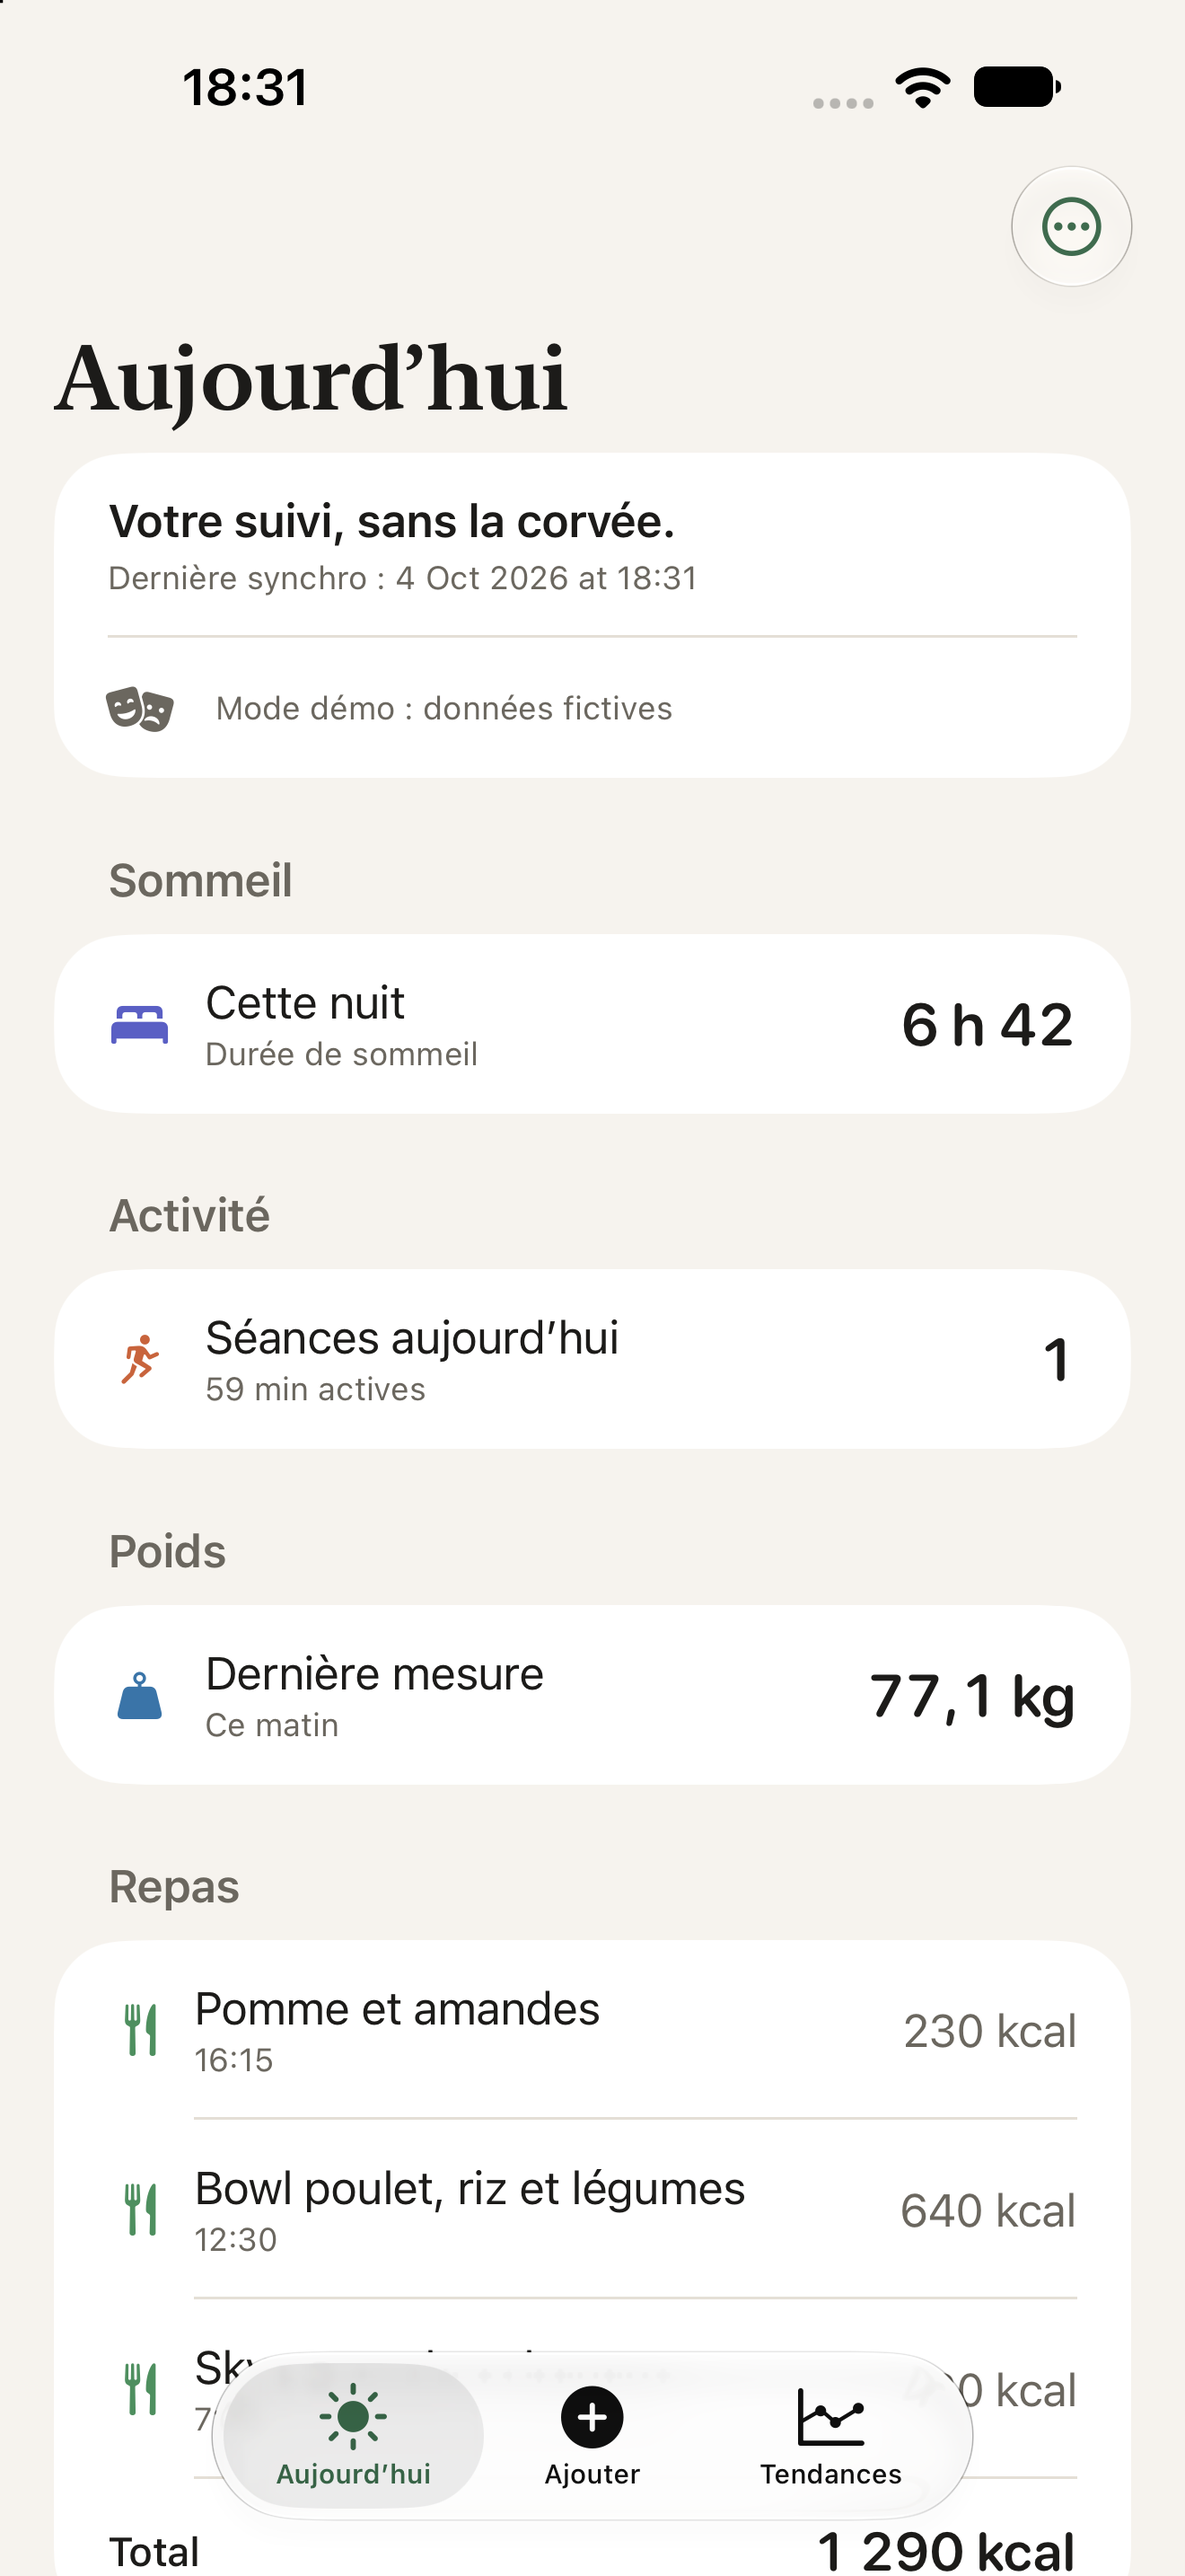
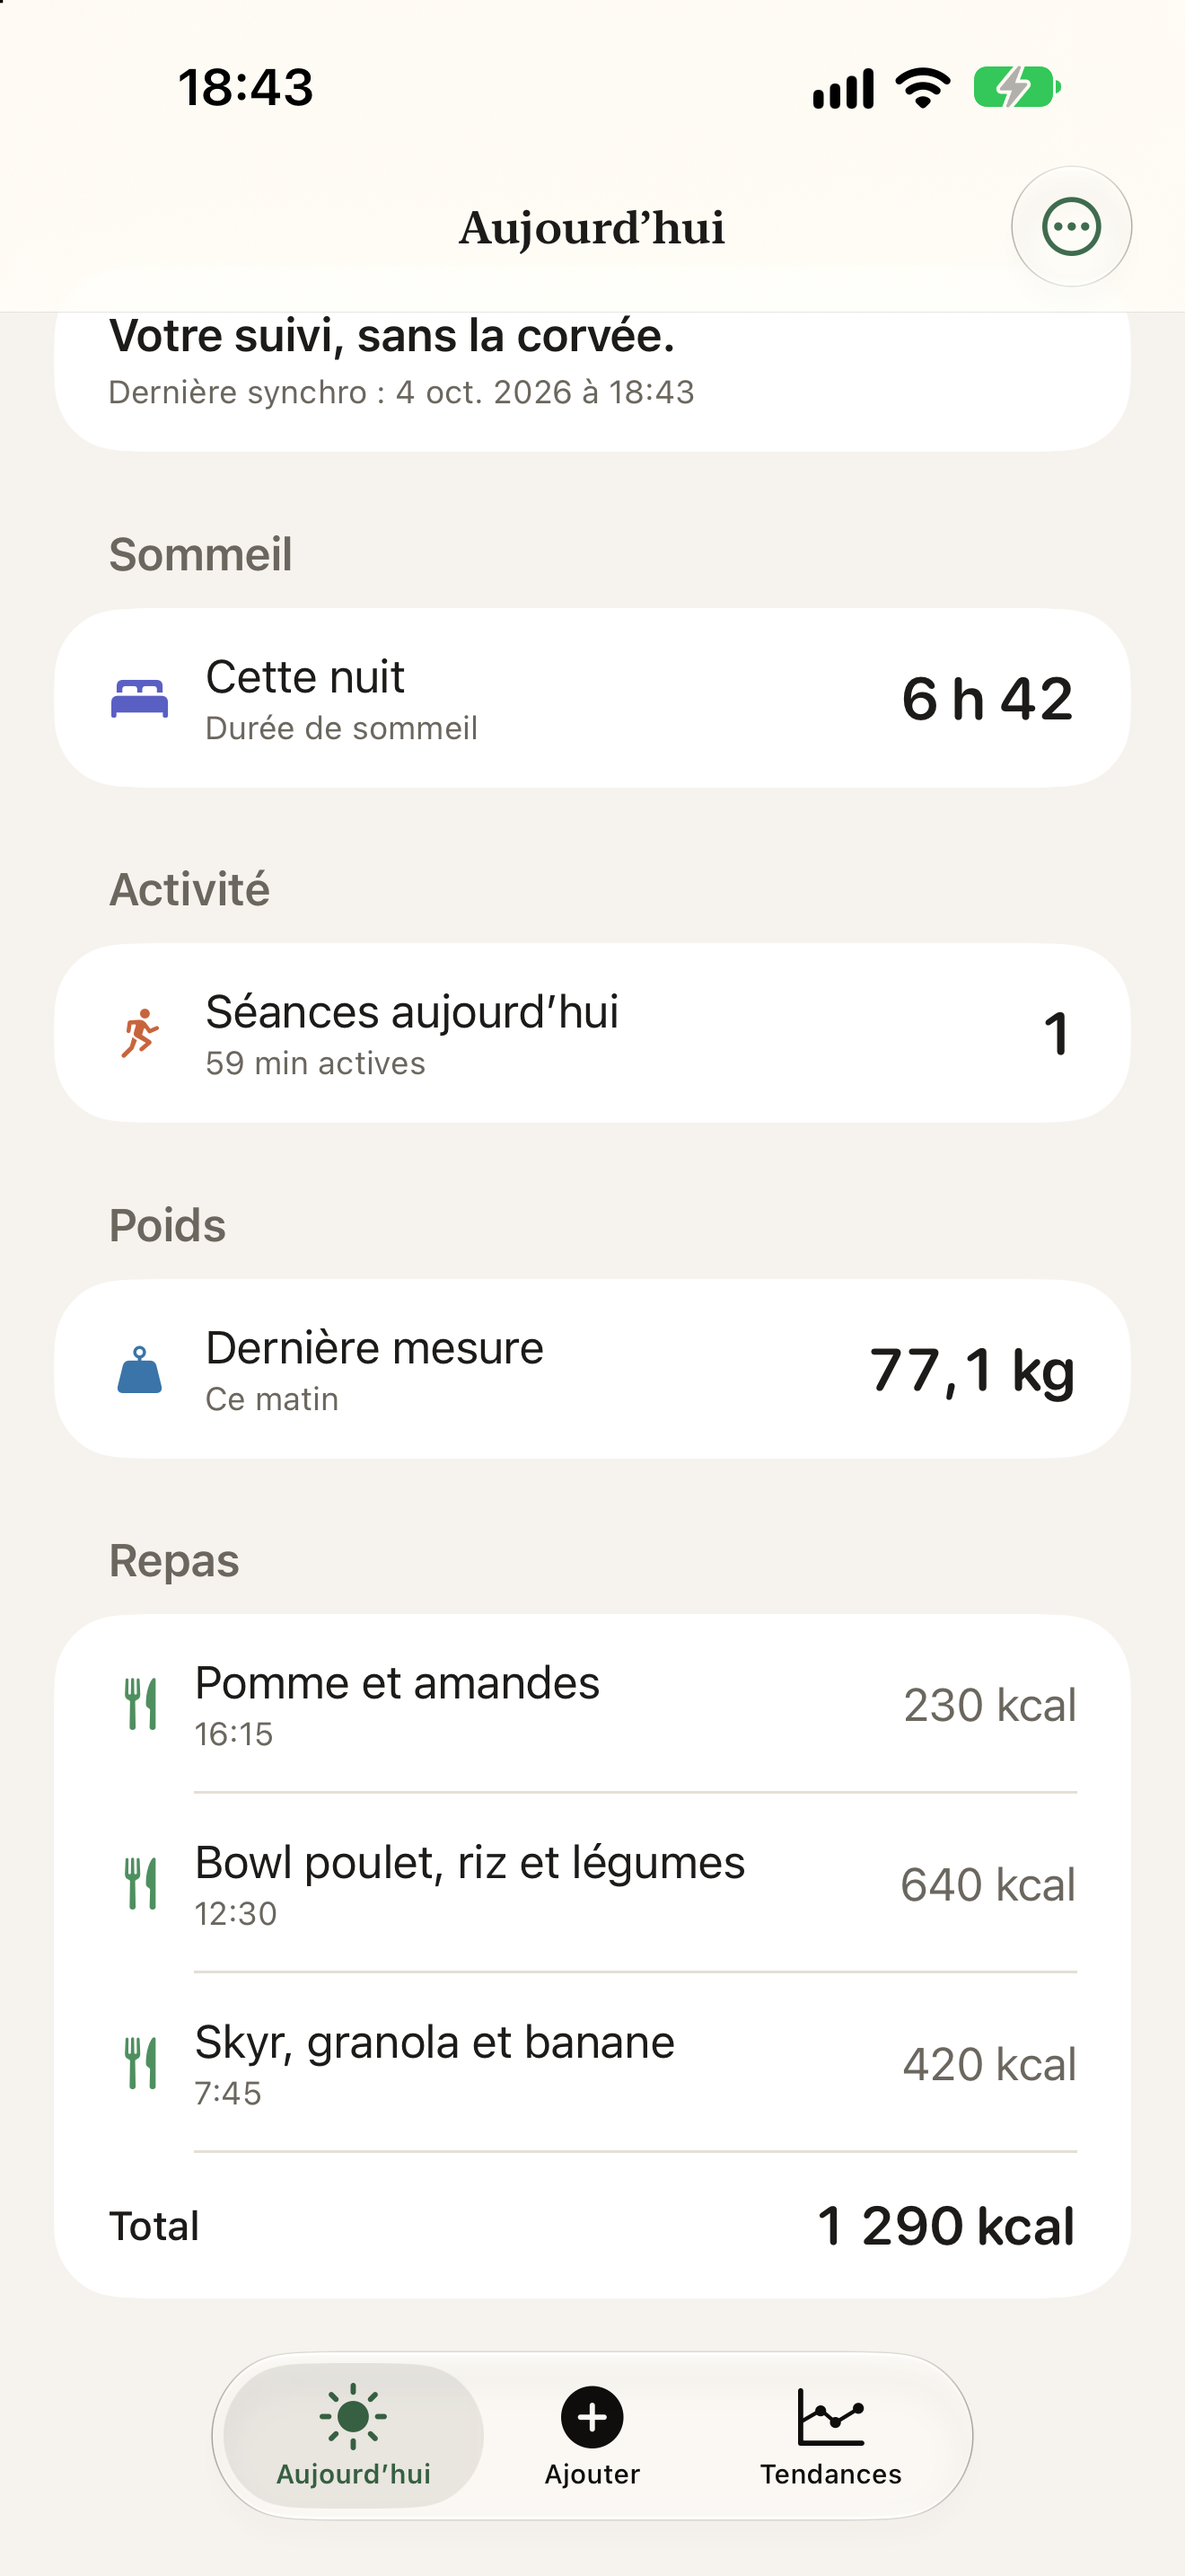
LIV-19: Captures en français, sans bandeau démo ni contenu coupé
- App déclarée en français (developmentRegion fr) : les dates suivaient
  l'anglais, y compris sur un iPhone réglé en français.
- Fond des listes étendu sous le clavier : supprime la bande sombre.
- « Enregistrer » retiré de la barre du clavier (doublon du bouton du haut).
- Arguments de capture (Debug seulement) : -captureMode, -captureScroll,
  -captureRange, -captureKeyboard.
- scripts/captures.sh régénère les 10 captures App Store et les 6 visuels
  de la landing, simulateur en français.

diff --git a/HealthKitSpike/LivasideSpike/LivasideRootView.swift b/HealthKitSpike/LivasideSpike/LivasideRootView.swift
@@ -20,13 +20,41 @@ struct LivasideRootView: View {
         .tint(Theme.sauge)
     }
 
-    /// Captures d'écran : `-captureTab trends` ouvre directement un onglet (build Debug seulement).
-    private static var initialTab: String {
-        #if DEBUG
-        UserDefaults.standard.string(forKey: "captureTab") ?? "today"
-        #else
-        "today"
-        #endif
+    private static var initialTab: String { Capture.tab ?? "today" }
+}
+
+/// Réglages des captures d'écran, lus dans les arguments de lancement (build Debug seulement) :
+/// `-captureTab today|meal|trends` ouvre un onglet, `-captureMode YES` masque le bandeau de démo,
+/// `-captureScroll end` cale la liste en bas, `-captureRange 30` choisit la période des tendances,
+/// `-captureKeyboard NO` ouvre « Ajouter un repas » sans clavier.
+private enum Capture {
+    #if DEBUG
+    static let tab = UserDefaults.standard.string(forKey: "captureTab")
+    static let isActive = UserDefaults.standard.bool(forKey: "captureMode")
+    static let scrollsToEnd = UserDefaults.standard.string(forKey: "captureScroll") == "end"
+    static let range = UserDefaults.standard.integer(forKey: "captureRange")
+    static let showsKeyboard = UserDefaults.standard.string(forKey: "captureKeyboard") != "NO"
+    #else
+    static let tab: String? = nil
+    static let isActive = false
+    static let scrollsToEnd = false
+    static let range = 0
+    static let showsKeyboard = true
+    #endif
+    static let endID = "capture-end"
+}
+
+private extension View {
+    /// `-captureScroll end` : cale la liste sur sa dernière ligne (`Capture.endID`), au-dessus de la barre d'onglets.
+    func scrollsToEndForCapture() -> some View {
+        ScrollViewReader { proxy in
+            task {
+                guard Capture.scrollsToEnd else { return }
+                // La liste doit être en place, sinon le défilement est ignoré.
+                try? await Task.sleep(for: .milliseconds(500))
+                proxy.scrollTo(Capture.endID, anchor: .bottom)
+            }
+        }
     }
 }
 
@@ -44,6 +72,8 @@ private struct TodayView: View {
     private var todayMeals: [Meal] {
         meals.filter { LivasideDate.calendar.isDateInToday($0.date) }
     }
+
+    private var showsDemoBanner: Bool { demoMode && !Capture.isActive }
 
     var body: some View {
         NavigationStack {
@@ -72,12 +102,12 @@ private struct TodayView: View {
                             .accessibilityLabel("Synchroniser Apple Health")
                         }
                     }
-                    .cardRow(demoMode || health.problem != nil ? .top : .single)
-                    if demoMode {
+                    .cardRow(showsDemoBanner || (!demoMode && health.problem != nil) ? .top : .single)
+                    if showsDemoBanner {
                         Label("Mode démo : données fictives", systemImage: "theatermasks.fill")
                             .font(.caption).foregroundStyle(Theme.inkSoft)
                             .cardRow(.bottom)
-                    } else if let problem = health.problem {
+                    } else if !demoMode, let problem = health.problem {
                         Text(problem).font(.caption).foregroundStyle(Theme.inkSoft)
                             .cardRow(.bottom)
                     }
@@ -126,10 +156,12 @@ private struct TodayView: View {
                                 .font(Theme.number(.title3))
                         }
                         .cardRow(.bottom)
+                        .id(Capture.endID)
                     }
                 } header: { SectionTitle("Repas") }
             }
             .themedList()
+            .scrollsToEndForCapture()
             .navigationTitle("Aujourd’hui")
             .toolbar {
                 Menu {
@@ -238,16 +270,12 @@ private struct AddMealView: View {
                     Button("Enregistrer", action: save)
                         .disabled(!canSave)
                 }
-                ToolbarItemGroup(placement: .keyboard) {
-                    Spacer()
-                    Button("Enregistrer", action: save).disabled(!canSave)
-                }
             }
             .onAppear {
                 // L'onglet reste en mémoire : sans ça, un repas saisi à midi garderait l'heure du matin.
                 date = .now
                 lastSaved = nil
-                focus = .name
+                if Capture.showsKeyboard { focus = .name }
             }
         }
     }
@@ -291,7 +319,7 @@ private struct AddMealView: View {
 
 private struct TrendsView: View {
     @Query(sort: \DailyHealthSnapshot.day) private var snapshots: [DailyHealthSnapshot]
-    @State private var range = 7
+    @State private var range = Capture.range == 30 ? 30 : 7
 
     private var data: [DailyHealthSnapshot] {
         let today = LivasideDate.startOfDay(.now)
@@ -332,9 +360,11 @@ private struct TrendsView: View {
                     Text("Charge d’entraînement : non calculée dans cette version.")
                         .font(.caption).foregroundStyle(Theme.inkSoft)
                         .cardRow(.bottom)
+                        .id(Capture.endID)
                 } header: { SectionTitle("Activité") }
             }
             .themedList()
+            .scrollsToEndForCapture()
             .navigationTitle("Tendances")
         }
     }

diff --git a/HealthKitSpike/LivasideSpike/ThemeComponents.swift b/HealthKitSpike/LivasideSpike/ThemeComponents.swift
@@ -55,7 +55,8 @@ extension View {
     /// Fond `bg` derrière une `List` ou un `Form`.
     func themedList() -> some View {
         scrollContentBackground(.hidden)
-            .background(Theme.bg)
+            // Le fond passe sous le clavier et la barre d'onglets : sans ça, une bande noire apparaît en sombre.
+            .background(Theme.bg.ignoresSafeArea())
             .foregroundStyle(Theme.ink)
     }
 

diff --git a/HealthKitSpike/README.md b/HealthKitSpike/README.md
@@ -31,6 +31,9 @@ xcodebuild -project HealthKitSpike/LivasideSpike.xcodeproj -scheme LivasideSpike
 
 Captures sur simulateur (build Debug) : `-demoMode YES` active la démo et `-captureTab today|meal|trends` ouvre directement un onglet, par exemple
 `xcrun simctl launch <simulateur> com.livaside.healthkitspike -demoMode YES -captureTab trends`.
+En plus : `-captureMode YES` masque le bandeau « Mode démo », `-captureScroll end` cale la liste au-dessus de la barre d’onglets,
+`-captureRange 30` affiche les tendances sur 30 jours et `-captureKeyboard NO` ouvre « Ajouter un repas » sans clavier.
+`scripts/captures.sh` régénère d’un coup les 10 captures App Store et les 6 visuels de la landing, simulateur en français.
 
 L’habillage (direction artistique v1, LIV-17) passe par `Theme.swift` (jetons du designer) et `ThemeComponents.swift` (cartes, titres en New York, axes des graphiques).
 
